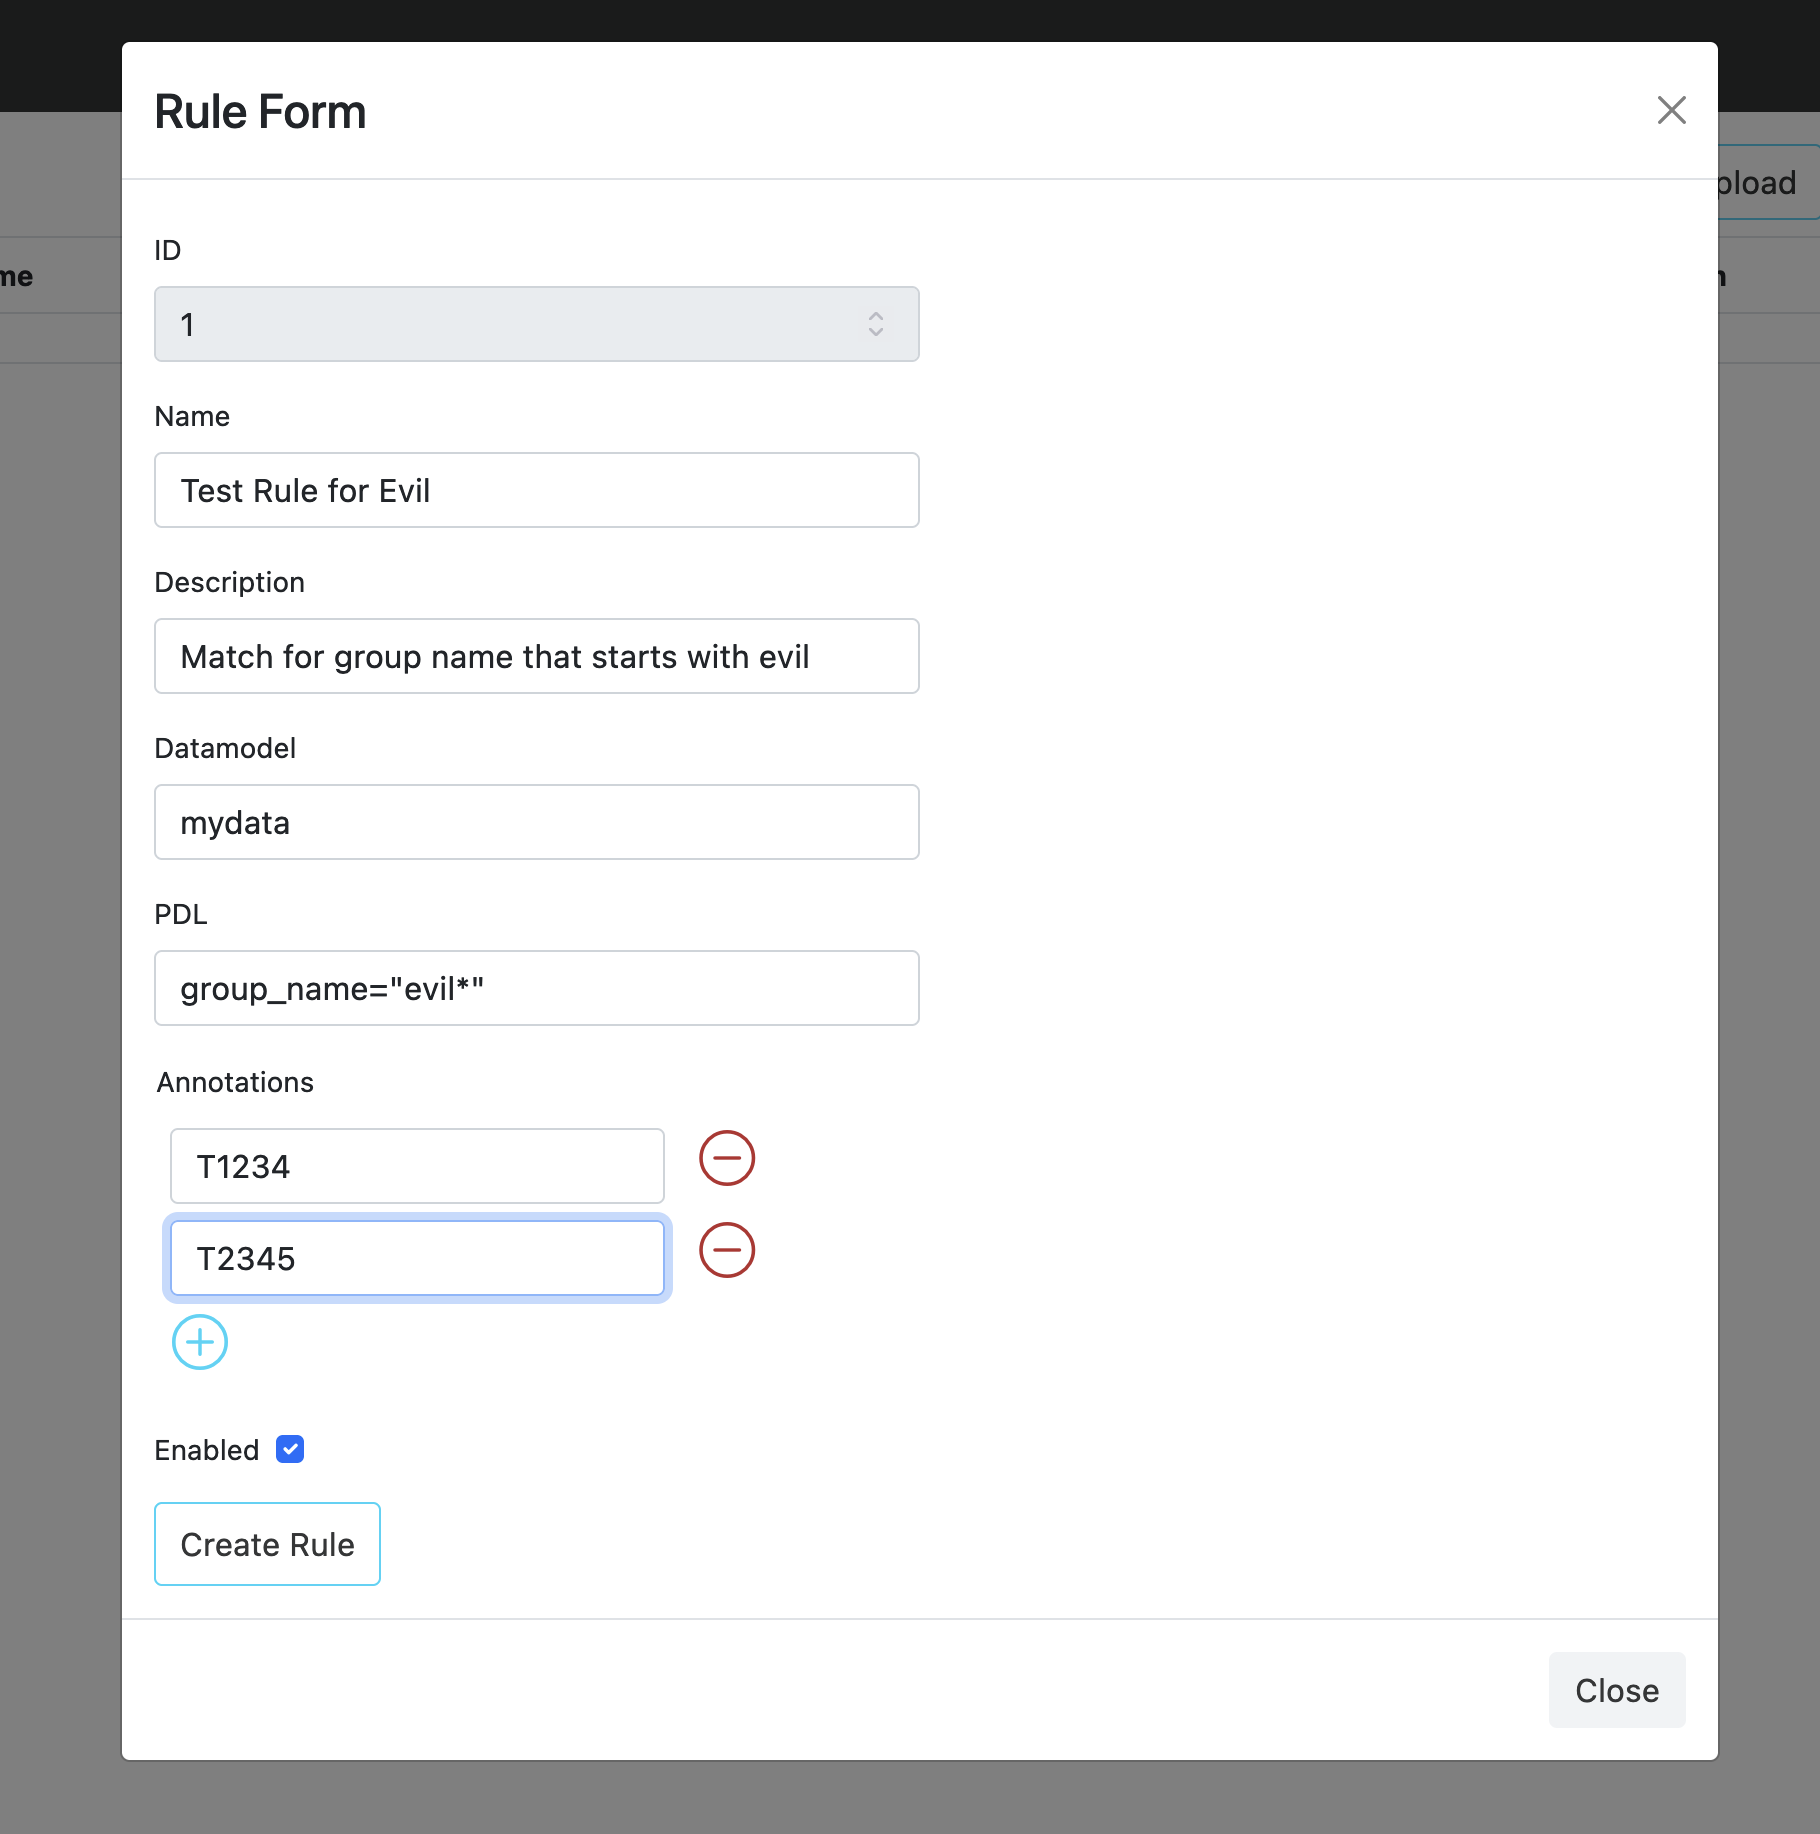
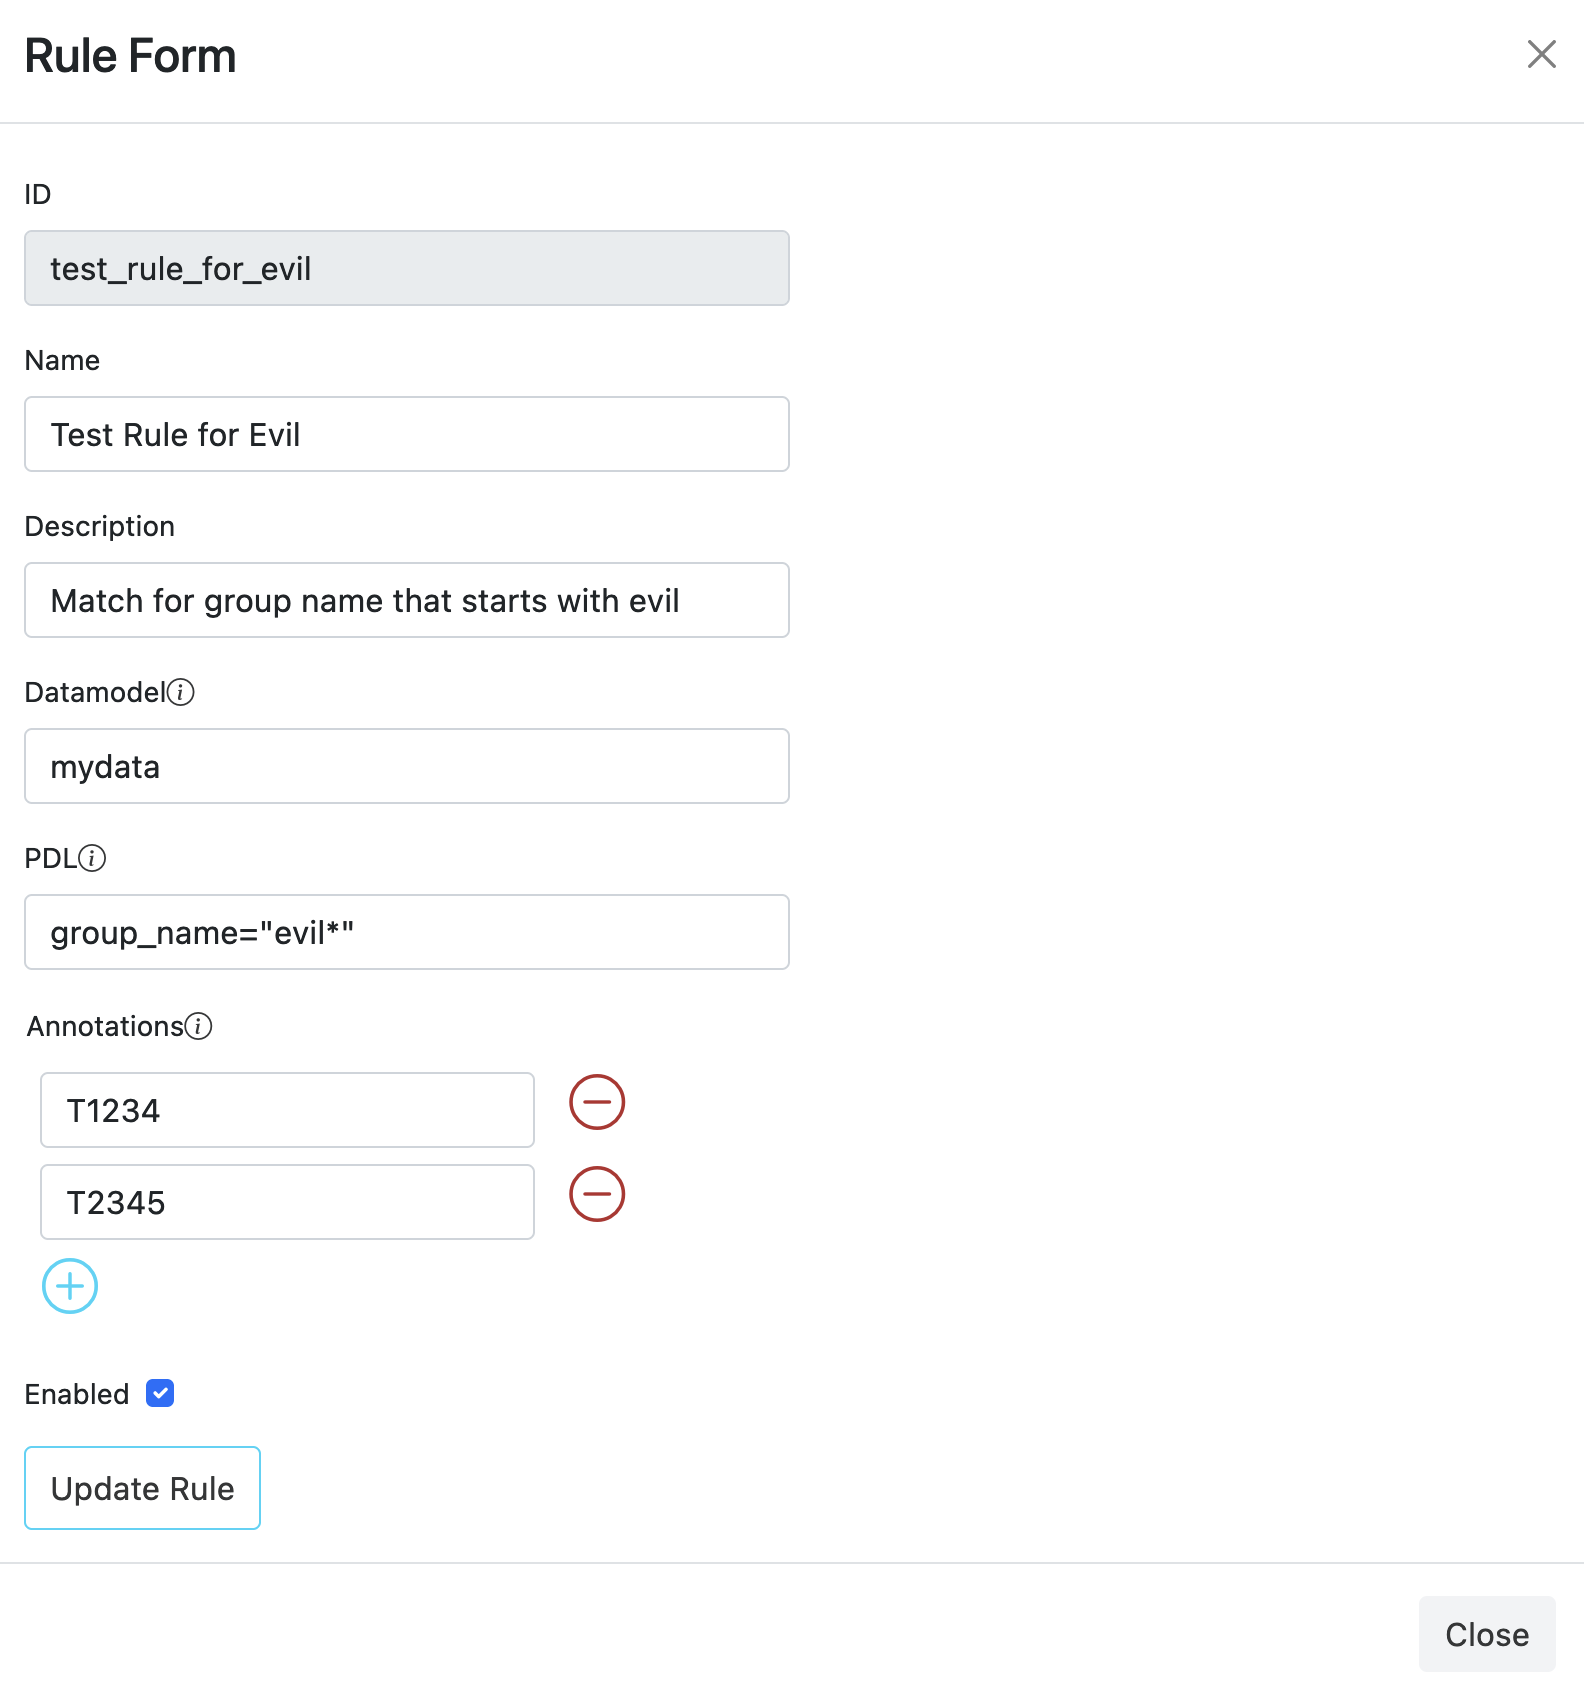
PADAS-55 updated based with expression task

Changed region(s): [[0.0, 0.0, 1.0, 1.0]]

diff --git a/docs/quickstart.md b/docs/quickstart.md
@@ -86,9 +86,8 @@ Upload the configurations from the corresponding menus.  Each of the views provi
   - For [Tasks](https://localhost:9000/tasks) upload [PadasQuickStartTasks.json](../assets/config/PadasQuickStartTasks.json)
   - For [Pipelines](https://localhost:9000/pipelines) upload [PadasQuickStartPipelines.json](../assets/config/PadasQuickStartPipelines.json)
   - For [Rules](https://localhost:9000/rules) upload [PadasQuickStartRules.json](../assets/config/PadasQuickStartRules.json)
+  - For [Topologies](https://localhost:9000/topologies) upload [PadasQuickStartTopologies.json](../assets/config/PadasQuickStartTopologies.json)
     
-    **NOTE**: You will need to create the topology manually, please go to step 4 below.
-
     <figure markdown>
       <p>
       <img src="../assets/img/padas_ui_upload_config.png" class="w-50 img-fluid py-5">
@@ -96,13 +95,15 @@ Upload the configurations from the corresponding menus.  Each of the views provi
     </figure>
   
 ---
+Following steps will guide you through how to manually create these configuration items instead of uploading.
 
-1. **Create Tasks**: We will create 2 tasks.  First one will simply perform some enrichment and add a new field `group_name` based on a condition.  The second one will run all relevant PDL rules for `mydata` data model (arbitrary name).  From [Tasks](https://localhost:9000/tasks) menu, click <span class="btn btn-padas">New Task</span> button and fill in the details.
+1. **Create Tasks**: We will create 2 tasks.  First one will simply perform some enrichment and add a new field `group_name` based on a condition.  The second one will run all selected PDL rules.  From [Tasks](https://localhost:9000/tasks) menu, click <span class="btn btn-padas">New Task</span> button and fill in the details.
     <figure markdown>
       <p>
       <img src="../assets/img/padas_ui_task_eval_create.png" class="w-50 img-fluid py-5">
       </p>
       <p>
+      <!-- TODO: INSERT NEW SCREENSHOT HERE -->
       <img src="../assets/img/padas_ui_task_rule_create.png" class="w-50 img-fluid py-5">
       </p>
     </figure>
@@ -160,29 +161,36 @@ Upload the configurations from the corresponding menus.  Each of the views provi
       "group_id": 1,
       "action": "failure",
       "group_name": "evil group",
-      "padas_rules": [
-        {
-          "id": 1,
-          "name": "Test Rule for Evil",
-          "description": "Match for group name that starts with evil",
-          "pdl": "group_name=\"evil*\"",
-          "datamodel": "mydata",
-          "annotations": [
-            "T1234",
-            "T2345"
-          ]
-        },
-        {
-          "id": 2,
-          "name": "Test Rule for Failure",
-          "description": "Match when action is failure",
-          "pdl": "action=\"failure\"",
-          "datamodel": "mydata",
-          "annotations": [
-            "T9876"
-          ]
-        }
-      ]
+      "padasRule": 
+      {
+        "id": "test_rule_for_evil",
+        "name": "Test Rule for Evil",
+        "description": "Match for group name that starts with evil",
+        "pdl": "group_name=\"evil*\"",
+        "datamodel": "mydata",
+        "annotations": [
+          "T1234",
+          "T2345"
+        ]
+      }
+    }
+
+    {
+      "user": "user_1",
+      "group_id": 1,
+      "action": "failure",
+      "group_name": "evil group",
+      "padasRule": 
+      {
+        "id": "test_rule_for_failure",
+        "name": "Test Rule for Failure",
+        "description": "Match when action is failure",
+        "pdl": "action=\"failure\"",
+        "datamodel": "mydata",
+        "annotations": [
+          "T9876"
+        ]
+      }
     }
     ```
 
